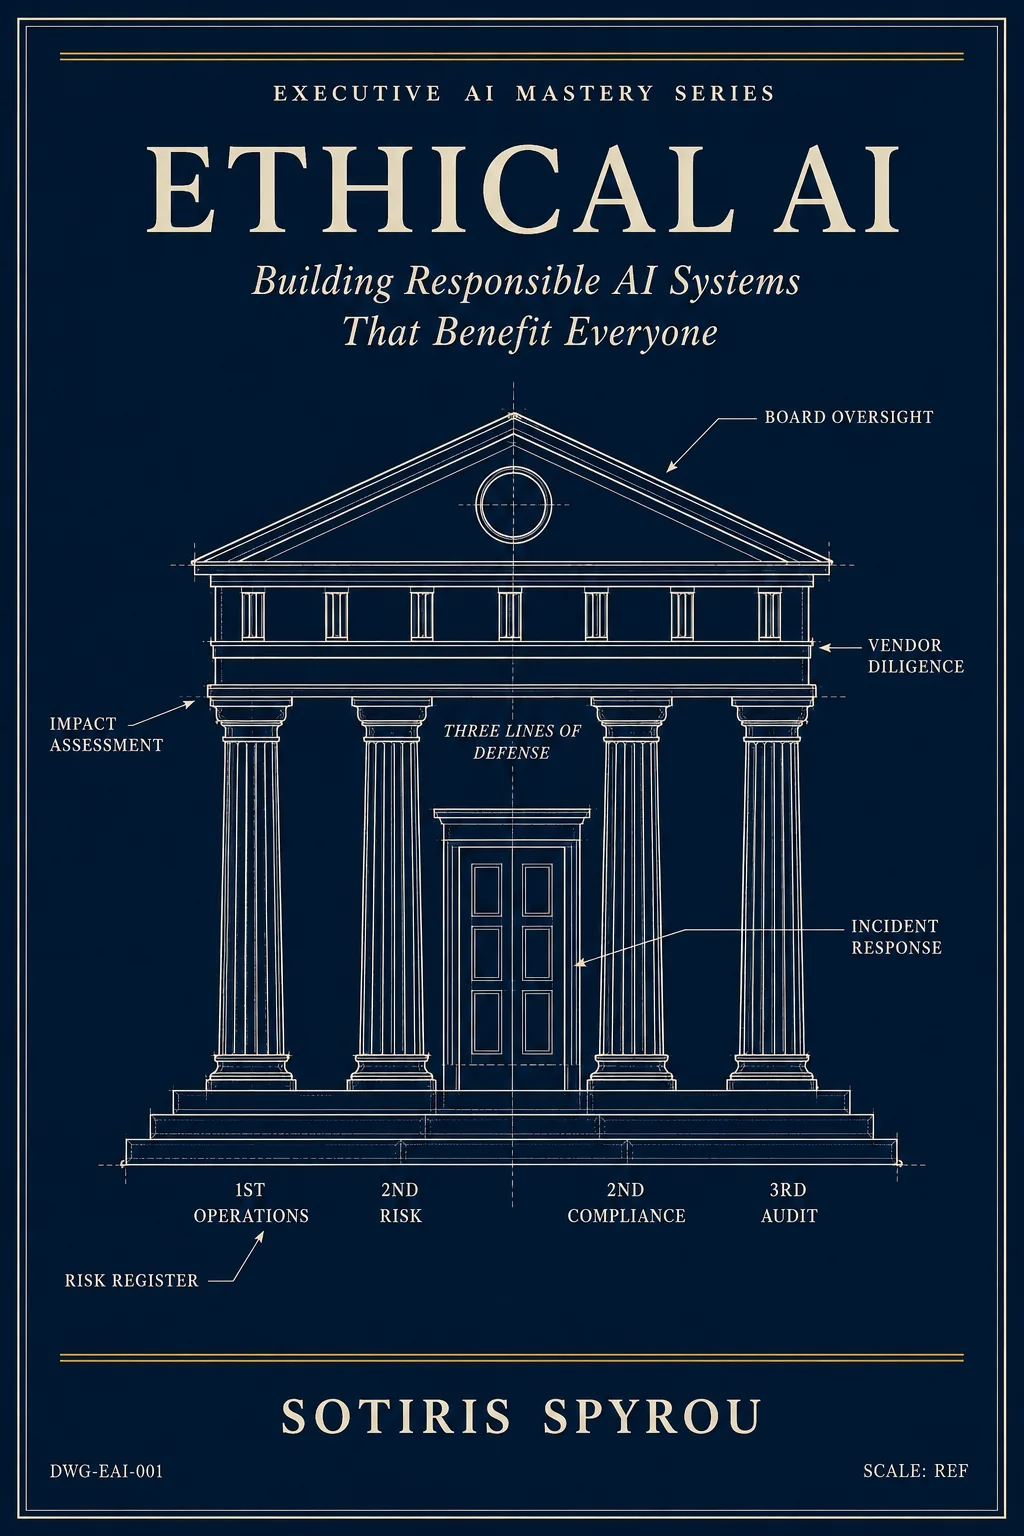
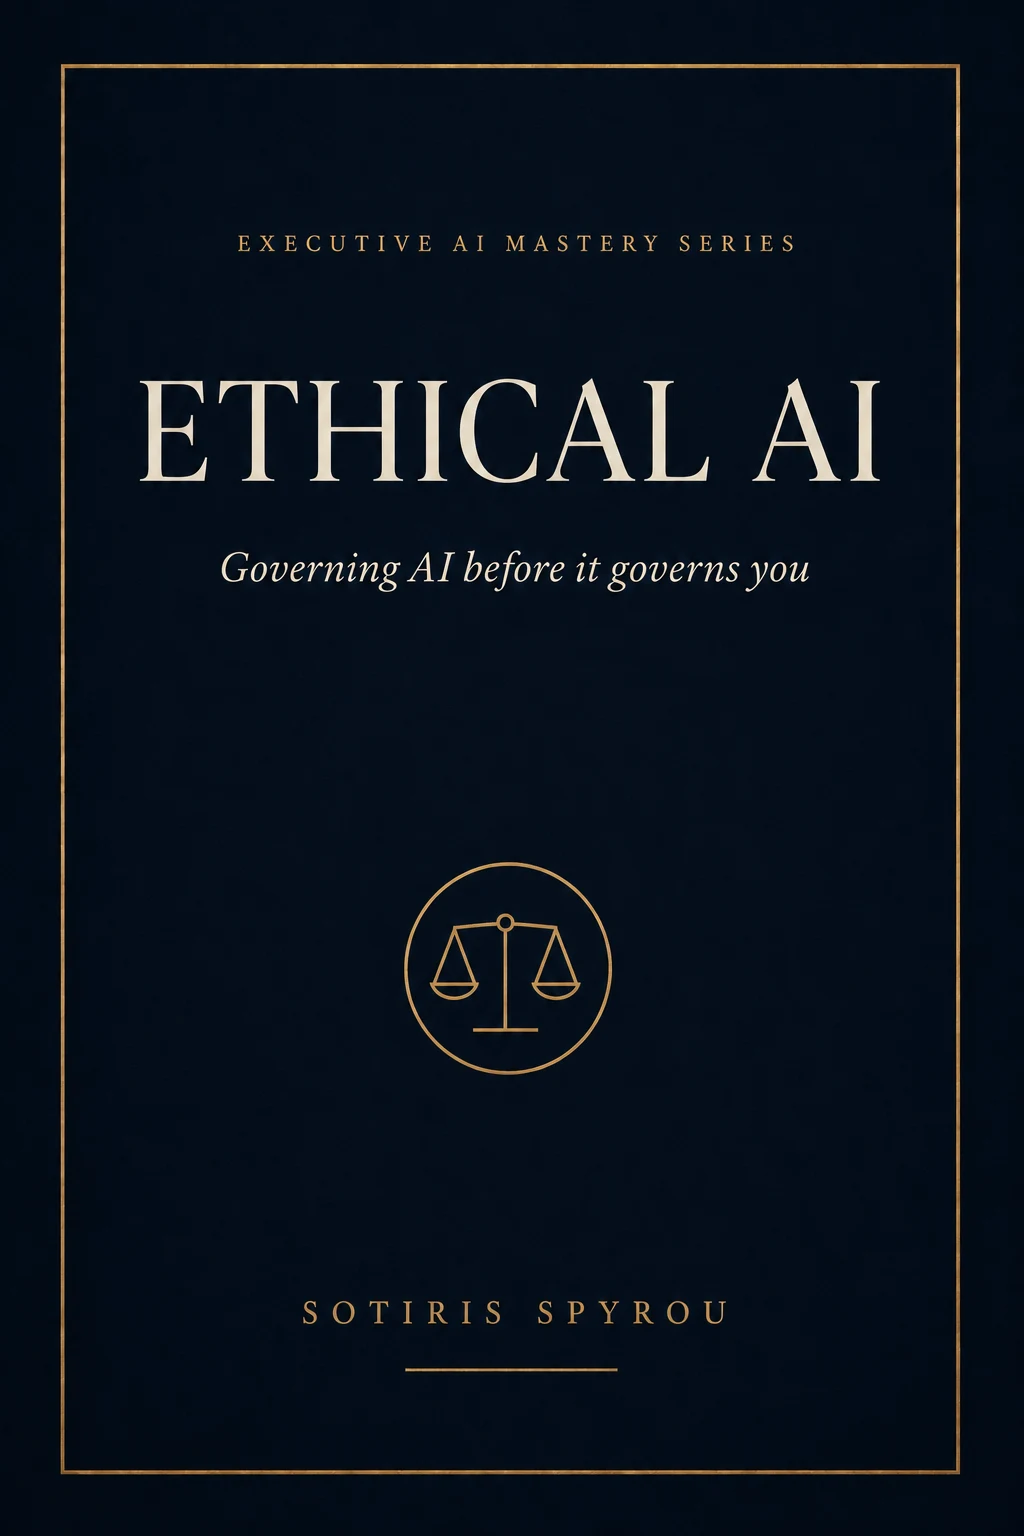
Update B2B book covers + blurbs (AI Monopoly -> AI Moats)
Three B2B books were updated with new covers, sharper subtitles, and
sober-register Amazon-style blurbs reflecting the Executive AI Mastery
series rebrand.

Title rename:
- AI Monopoly -> AI Moats (everywhere on site: about, press, blog)

New subtitles (from updated covers):
- Ethical AI: "Governing AI Before It Governs You"
- AI Moats: "Building a Defensible Advantage in the Age of AI"
- TRANSFORM: "Delivering AI Transformation When Most Fail"

New cover assets:
- /public/images/other-books/ethical-ai.webp (replaced, new design)
- /public/images/other-books/ai-moats.webp (new file)
- /public/images/other-books/transform.webp (replaced, new design)
- /public/images/other-books/ai-monopoly.webp (deleted - book renamed)

New blurbs lead with verified named cases (Air Canada chatbot ruling
2024, Nvidia ~$589bn single-day loss Jan 2025, MD Anderson Watson
~$62m, Zillow >$540m write-down) rather than abstract claims.

Also normalised the old "A-Z Guide to Ethical AI Success" subtitle to
just "Ethical AI" everywhere (blog + press), matching current canonical
title.

diff --git a/src/app/about/page.tsx b/src/app/about/page.tsx
@@ -20,31 +20,31 @@ const OTHER_BOOKS = [
   },
   {
     title: "Ethical AI",
-    subtitle: "Building Responsible AI Systems That Benefit Everyone",
-    tagline: "A practical guide for boards and C-suites navigating responsible AI deployment.",
-    audience: "C-suite, boards, business owners",
+    subtitle: "Governing AI Before It Governs You",
+    tagline: "A working guide to governing AI before it governs you.",
+    audience: "C-suite, boards, business owners, P&L owners",
     blurb:
-      "Twenty-six chapters covering the full alphabet of ethics-anchored AI implementation. Self-assessment templates, governance frameworks, and the questions every leader should be asking their AI vendors. Written for executives who need answers more than hype.",
+      "When an AI system causes harm, the law looks for a person. Not a model. In 2024 a tribunal held Air Canada responsible for what its chatbot told a customer. That precedent is now one of dozens. Written for the person who owns the P&L, signs the procurement, or carries the legal exposure. Includes the Three Lines of Defence applied to AI, the EU AI Act in plain terms, and a 90-day governance starter.",
     amazonUrl: "https://a.co/d/09Pc24e5",
     cover: "/images/other-books/ethical-ai.webp",
   },
   {
-    title: "AI Monopoly",
-    subtitle: "Strategic Advantage in the Age of Artificial Intelligence",
-    tagline: "How AI startups build defensible moats - and why most fail to.",
+    title: "AI Moats",
+    subtitle: "Building a Defensible Advantage in the Age of AI",
+    tagline: "Where durable AI advantage actually comes from.",
     audience: "Founders, investors, operators",
     blurb:
-      "Nine named failure cases from the 2024-2026 AI boom (Stability, Cohere, Adept, Inflection, Character.AI, and others) analysed for what their moats actually were and where they cracked. Includes a 90-day moat-build-and-assess programme with operator and investor versions, plus a term-sheet diligence checklist and board-level moat dashboard.",
+      "Spending the most on AI compute is not a moat. It is a cost. In one week of January 2025, a Chinese lab matched the Western frontier at a fraction of the cost, and Nvidia lost close to $600 billion of market value in a single day. AI Moats sets out the four currencies of real advantage - data, compute, distribution, and trust - and the six-question diligence framework for telling a real moat from a marketing story.",
     amazonUrl: "https://a.co/d/0g5lSbXl",
-    cover: "/images/other-books/ai-monopoly.webp",
+    cover: "/images/other-books/ai-moats.webp",
   },
   {
     title: "TRANSFORM",
-    subtitle: "The Executive's Playbook for AI Transformation That Actually Works",
-    tagline: "A nine-phase framework for AI transformation in Fortune 500 and mid-market organisations.",
-    audience: "C-suite, transformation leaders, $6M+ AI budgets",
+    subtitle: "Delivering AI Transformation When Most Fail",
+    tagline: "A nine-step framework for AI transformation that aims at business results, not demos.",
+    audience: "C-suite, transformation leaders, AI programme owners",
     blurb:
-      "Real case studies from JPMorgan Chase (COIN, LLM Suite), Schneider Electric (EcoStruxure), Bank of America (Erica AI), Maersk, and Mayo Clinic. The TRANSFORM acrostic is a genuine nine-phase framework, not an arbitrary alphabet. Honest about failure rates: the BCG/MIT, Gartner, IDC, and RAND data all properly attributed.",
+      "Most AI transformations fail. Not on the technology - on everything around it. MD Anderson shelved a reported $62 million Watson programme. Zillow wrote down more than half a billion after letting an algorithm price homes. The tech worked; the transformation didn't. TRANSFORM is the nine-step framework for the executive who has to make the call on Tuesday and answer for it at the next board meeting - not for the data-science team.",
     amazonUrl: "https://a.co/d/05se3XSH",
     cover: "/images/other-books/transform.webp",
   },

diff --git a/src/app/press/page.tsx b/src/app/press/page.tsx
@@ -49,11 +49,11 @@ const READY_QUOTES = [
 
 const OTHER_BOOKS_BRIEF = [
   {
-    title: "The A-Z Guide to Ethical AI Success",
+    title: "Ethical AI",
     summary: "C-suite and board guide to responsible AI deployment.",
   },
   {
-    title: "AI Monopoly",
+    title: "AI Moats",
     summary: "Founder and investor guide to building defensible AI moats. Nine named failure cases.",
   },
   {
@@ -386,8 +386,8 @@ export default function PressPage() {
                 Adjacent author angles
               </strong>{" "}
               available for interviews: AI ethics and governance (drawing on
-              Spyrou&apos;s prior business book The A-Z Guide to Ethical AI
-              Success), the political economy of AI (drawing on AI Monopoly),
+              Spyrou&apos;s prior business book Ethical AI), the political
+              economy of AI (drawing on AI Moats),
               enterprise AI transformation (drawing on TRANSFORM), and the
               relationship between non-fiction argument and long-form fiction.
             </p>
